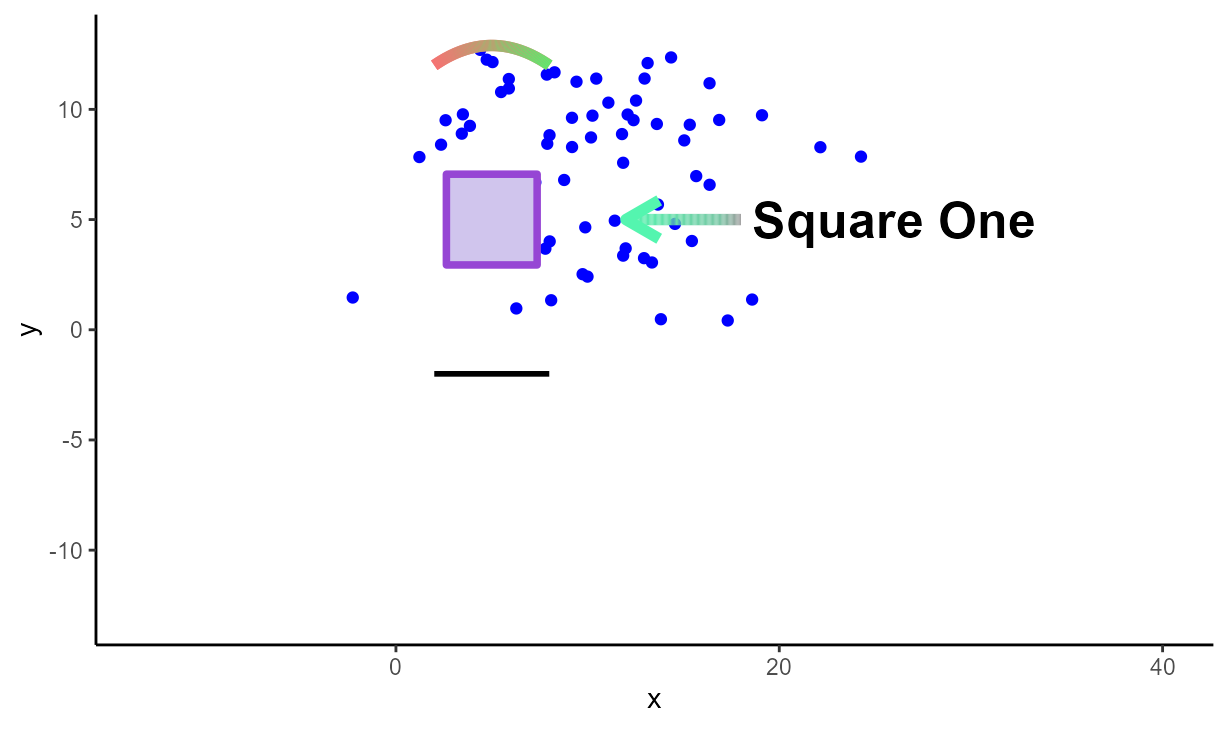
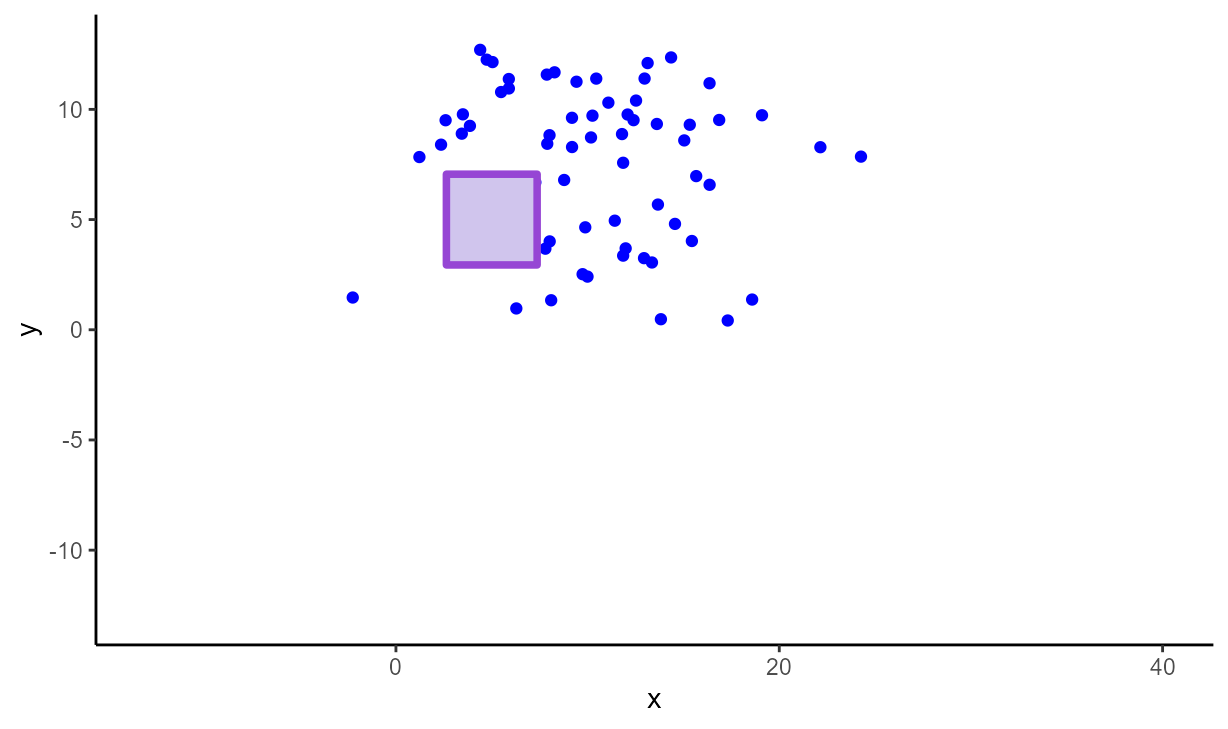
done

Changed region(s): [[0.4951, 0.2716, 0.8664, 0.332], [0.3404, 0.0302, 0.4642, 0.0905], [0.3713, 0.4829, 0.4332, 0.5432]]

diff --git a/docs/articles/annotations.html b/docs/articles/annotations.html
@@ -89,19 +89,23 @@ Elements</em>) into our base plot, which is coded below:</p>
 <span>  <span class="fu"><a href="https://ggplot2.tidyverse.org/reference/scale_continuous.html" class="external-link">scale_y_continuous</a></span><span class="op">(</span>limits <span class="op">=</span> <span class="fu"><a href="https://rdrr.io/r/base/c.html" class="external-link">c</a></span><span class="op">(</span><span class="op">-</span><span class="fl">13</span>, <span class="fl">13</span><span class="op">)</span><span class="op">)</span> <span class="op">+</span></span>
 <span>  <span class="fu"><a href="https://ggplot2.tidyverse.org/reference/ggtheme.html" class="external-link">theme_classic</a></span><span class="op">(</span><span class="op">)</span></span>
 <span><span class="va">p</span></span></code></pre></div>
-<p><img src="annotations_files/figure-html/unnamed-chunk-2-1.png" width="614.4"></p>
+<pre><code><span><span class="co">#&gt; Warning: Removed 33 rows containing missing values or values outside the scale range</span></span>
+<span><span class="co">#&gt; (`geom_point()`).</span></span></code></pre>
+<p><img src="ch4_p0.png" width="85%" style="display: block; margin: auto auto auto 0;"></p>
 <div class="section level2">
 <h2 id="adding-points">Adding Points<a class="anchor" aria-label="anchor" href="#adding-points"></a>
 </h2>
 <p>We load the CSV output of points using <code><a href="https://readr.tidyverse.org/reference/read_delim.html" class="external-link">read_csv()</a></code>
 function, and paste it on our base plot (<code>p</code>) using
 <code><a href="../reference/draw_points.html">draw_points()</a></code>.</p>
-<div class="sourceCode" id="cb2"><pre class="downlit sourceCode r">
+<div class="sourceCode" id="cb3"><pre class="downlit sourceCode r">
 <code class="sourceCode R"><span><span class="va">points_data</span> <span class="op">&lt;-</span> <span class="fu"><a href="https://readr.tidyverse.org/reference/read_delim.html" class="external-link">read_csv</a></span><span class="op">(</span><span class="st">"https://www.smin95.com/points.csv"</span><span class="op">)</span></span>
 <span><span class="va">p1</span> <span class="op">&lt;-</span> <span class="fu"><a href="../reference/draw_points.html">draw_points</a></span><span class="op">(</span><span class="va">p</span>, <span class="va">points_data</span><span class="op">)</span></span>
 <span></span>
 <span><span class="va">p1</span></span></code></pre></div>
-<p><img src="annotations_files/figure-html/unnamed-chunk-3-1.png" width="614.4"></p>
+<pre><code><span><span class="co">#&gt; Warning: Removed 33 rows containing missing values or values outside the scale range</span></span>
+<span><span class="co">#&gt; (`geom_point()`).</span></span></code></pre>
+<p><img src="ch4_p1.png" width="85%" style="display: block; margin: auto auto auto 0;"></p>
 </div>
 <div class="section level2">
 <h2 id="adding-lines">Adding Lines<a class="anchor" aria-label="anchor" href="#adding-lines"></a>
@@ -113,11 +117,13 @@ gradient lines, the resolution of the color gradient can be adjusted
 with the argument <code>n</code> in <code><a href="../reference/draw_lines.html">draw_lines()</a></code>. The
 default is set to <code>n = 500</code> for a fine resolution but it can
 be quite slow.</p>
-<div class="sourceCode" id="cb3"><pre class="downlit sourceCode r">
+<div class="sourceCode" id="cb5"><pre class="downlit sourceCode r">
 <code class="sourceCode R"><span><span class="va">lines_data</span> <span class="op">&lt;-</span> <span class="fu"><a href="https://readr.tidyverse.org/reference/read_delim.html" class="external-link">read_csv</a></span><span class="op">(</span><span class="st">"https://www.smin95.com/lines.csv"</span><span class="op">)</span></span>
 <span><span class="va">p2</span> <span class="op">&lt;-</span> <span class="fu"><a href="../reference/draw_lines.html">draw_lines</a></span><span class="op">(</span><span class="va">p1</span>, <span class="va">lines_data</span>, n <span class="op">=</span> <span class="fl">100</span><span class="op">)</span></span>
 <span><span class="va">p2</span></span></code></pre></div>
-<p><img src="annotations_files/figure-html/unnamed-chunk-4-1.png" width="614.4"></p>
+<pre><code><span><span class="co">#&gt; Warning: Removed 33 rows containing missing values or values outside the scale range</span></span>
+<span><span class="co">#&gt; (`geom_point()`).</span></span></code></pre>
+<p><img src="ch4_p2.png" width="85%" style="display: block; margin: auto auto auto 0;"></p>
 </div>
 <div class="section level2">
 <h2 id="adding-text-annotations">Adding Text Annotations<a class="anchor" aria-label="anchor" href="#adding-text-annotations"></a>
@@ -125,11 +131,13 @@ be quite slow.</p>
 <p>We load the CSV output of annotations using <code><a href="https://readr.tidyverse.org/reference/read_delim.html" class="external-link">read_csv()</a></code>
 function, and paste it on our base plot (<code>p2</code>) using
 <code><a href="../reference/draw_annotations.html">draw_annotations()</a></code>.</p>
-<div class="sourceCode" id="cb4"><pre class="downlit sourceCode r">
+<div class="sourceCode" id="cb7"><pre class="downlit sourceCode r">
 <code class="sourceCode R"><span><span class="va">annotations_data</span> <span class="op">&lt;-</span> <span class="fu"><a href="https://readr.tidyverse.org/reference/read_delim.html" class="external-link">read_csv</a></span><span class="op">(</span><span class="st">"https://www.smin95.com/annotations.csv"</span><span class="op">)</span></span>
 <span><span class="va">p3</span> <span class="op">&lt;-</span> <span class="fu"><a href="../reference/draw_annotations.html">draw_annotations</a></span><span class="op">(</span><span class="va">p2</span>, <span class="va">annotations_data</span><span class="op">)</span></span>
 <span><span class="va">p3</span></span></code></pre></div>
-<p><img src="annotations_files/figure-html/unnamed-chunk-5-1.png" width="614.4"></p>
+<pre><code><span><span class="co">#&gt; Warning: Removed 33 rows containing missing values or values outside the scale range</span></span>
+<span><span class="co">#&gt; (`geom_point()`).</span></span></code></pre>
+<p><img src="ch4_p3.png" width="85%" style="display: block; margin: auto auto auto 0;"></p>
 </div>
 <div class="section level2">
 <h2 id="adding-self-loop-arrows">Adding Self-loop Arrows<a class="anchor" aria-label="anchor" href="#adding-self-loop-arrows"></a>
@@ -137,13 +145,13 @@ function, and paste it on our base plot (<code>p2</code>) using
 <p>We load the CSV output of self-loop arrows using
 <code><a href="https://readr.tidyverse.org/reference/read_delim.html" class="external-link">read_csv()</a></code> function, and paste it on our base plot
 (<code>p3</code>) using <code><a href="../reference/draw_loops.html">draw_loops()</a></code>.</p>
-<div class="sourceCode" id="cb5"><pre class="downlit sourceCode r">
+<div class="sourceCode" id="cb9"><pre class="downlit sourceCode r">
 <code class="sourceCode R"><span><span class="va">loops_data</span> <span class="op">&lt;-</span> <span class="fu"><a href="https://readr.tidyverse.org/reference/read_delim.html" class="external-link">read_csv</a></span><span class="op">(</span><span class="st">"https://www.smin95.com/loops.csv"</span><span class="op">)</span></span>
 <span><span class="va">p4</span> <span class="op">&lt;-</span> <span class="fu"><a href="../reference/draw_loops.html">draw_loops</a></span><span class="op">(</span><span class="va">p3</span>, <span class="va">loops_data</span><span class="op">)</span></span>
 <span><span class="va">p4</span></span></code></pre></div>
 <pre><code><span><span class="co">#&gt; Warning: Removed 33 rows containing missing values or values outside the scale range</span></span>
 <span><span class="co">#&gt; (`geom_point()`).</span></span></code></pre>
-<p><img src="ch4_p4.png" width="100%" style="display: block; margin: auto auto auto 0;"></p>
+<p><img src="ch4_p4.png" width="85%" style="display: block; margin: auto auto auto 0;"></p>
 </div>
   </main><aside class="col-md-3"><nav id="toc" aria-label="Table of contents"><h2>On this page</h2>
     </nav></aside>
